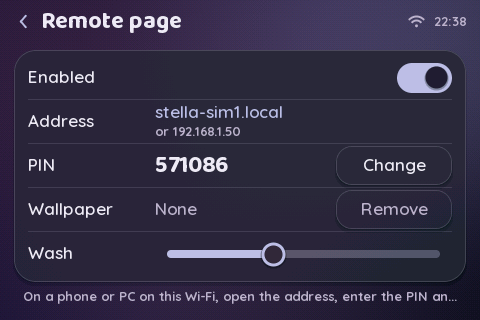
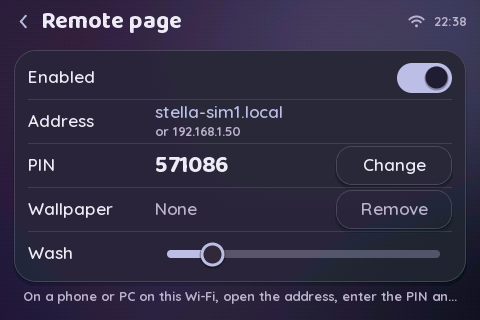
Remote page: clear the old error on unlock; gentler wallpaper defaults (0.13.1)
- A wrong PIN left "Wrong PIN" at the bottom of the page even after the right
  one unlocked it. The page now clears its message on every try and on success.
- The first defaults (35 % wash, picture softened to a quarter size) looked
  washed out and pixelated on the CYD. New wallpapers start at 15 % wash
  (kDefaultWallpaperVeil) and the page softens one step (160x120) instead of two.
  A wash already saved on a device is kept.

Claude-Session: https://claude.ai/code/session_01WrCzyR31TQn5da2N4PH2yW

Changed region(s): [[0.4062, 0.75, 0.5938, 0.8438]]

diff --git a/tools/remote_page.html b/tools/remote_page.html
@@ -13,19 +13,19 @@ canvas{width:100%;border-radius:14px;background:#2e283f;display:block}input[type
 <input type=file id=file accept="image/*">
 <canvas id=cv width=320 height=240></canvas>
 <label>Darken <span id=dv>25</span>%<input type=range id=dark min=0 max=60 value=25></label>
-<label>Soften <span id=sv>2</span><input type=range id=soft min=0 max=4 value=2></label>
+<label>Soften <span id=sv>1</span><input type=range id=soft min=0 max=4 value=1></label>
 <button id=send disabled>Send to Stella</button> <button class=q id=rm>Remove wallpaper</button>
 <h2>How much to wash it back</h2>
 <p>The device lightens the picture in light mode and darkens it in dark mode, so text stays readable.</p>
-<label>Wash <span id=vv>35</span>%<input type=range id=veil min=0 max=90 value=35></label>
+<label>Wash <span id=vv>15</span>%<input type=range id=veil min=0 max=90 value=15></label>
 </div><p id=msg></p>
 <script>
 const $=i=>document.getElementById(i),mk=(C,...a)=>Reflect.construct(C,a);let PIN='',img=null,out=null;
 const say=(t,bad)=>{$('msg').textContent=t;$('msg').className=bad?'bad':'ok'};
 async function api(path,body){const r=await fetch(path,{method:'POST',headers:{'X-Stella-Pin':PIN},body:body});
  let j={};try{j=await r.json()}catch(e){}if(!r.ok)throw Error(j.error||('error '+r.status));return j}
-$('go').onclick=async()=>{PIN=$('pin').value;try{await api('/api/check','');$('lock').style.display='none';$('app').style.display='block';
- $('top').textContent='Unlocked.';const s=await(await fetch('/api/status')).json();$('veil').value=s.veil;$('vv').textContent=s.veil;
+$('go').onclick=async()=>{PIN=$('pin').value;say('');try{await api('/api/check','');$('lock').style.display='none';$('app').style.display='block';
+ say('');$('top').textContent='Unlocked.';const s=await(await fetch('/api/status')).json();$('veil').value=s.veil;$('vv').textContent=s.veil;
  if(!s.supported)say('This device has no room for a wallpaper.',1)}catch(e){say(e.message,1)}};
 function crc32(u){let c,t=crc32.t;if(!t){t=crc32.t=mk(Uint32Array,256);for(let n=0;n<256;n++){c=n;for(let k=0;k<8;k++)c=c&1?0xEDB88320^(c>>>1):c>>>1;t[n]=c>>>0}}
  c=0xFFFFFFFF;for(let i=0;i<u.length;i++)c=t[(c^u[i])&255]^(c>>>8);return(c^0xFFFFFFFF)>>>0}

diff --git a/src/stella/net/remote_page.h b/src/stella/net/remote_page.h
@@ -20,19 +20,19 @@ canvas{width:100%;border-radius:14px;background:#2e283f;display:block}input[type
 <input type=file id=file accept="image/*">
 <canvas id=cv width=320 height=240></canvas>
 <label>Darken <span id=dv>25</span>%<input type=range id=dark min=0 max=60 value=25></label>
-<label>Soften <span id=sv>2</span><input type=range id=soft min=0 max=4 value=2></label>
+<label>Soften <span id=sv>1</span><input type=range id=soft min=0 max=4 value=1></label>
 <button id=send disabled>Send to Stella</button> <button class=q id=rm>Remove wallpaper</button>
 <h2>How much to wash it back</h2>
 <p>The device lightens the picture in light mode and darkens it in dark mode, so text stays readable.</p>
-<label>Wash <span id=vv>35</span>%<input type=range id=veil min=0 max=90 value=35></label>
+<label>Wash <span id=vv>15</span>%<input type=range id=veil min=0 max=90 value=15></label>
 </div><p id=msg></p>
 <script>
 const $=i=>document.getElementById(i),mk=(C,...a)=>Reflect.construct(C,a);let PIN='',img=null,out=null;
 const say=(t,bad)=>{$('msg').textContent=t;$('msg').className=bad?'bad':'ok'};
 async function api(path,body){const r=await fetch(path,{method:'POST',headers:{'X-Stella-Pin':PIN},body:body});
  let j={};try{j=await r.json()}catch(e){}if(!r.ok)throw Error(j.error||('error '+r.status));return j}
-$('go').onclick=async()=>{PIN=$('pin').value;try{await api('/api/check','');$('lock').style.display='none';$('app').style.display='block';
- $('top').textContent='Unlocked.';const s=await(await fetch('/api/status')).json();$('veil').value=s.veil;$('vv').textContent=s.veil;
+$('go').onclick=async()=>{PIN=$('pin').value;say('');try{await api('/api/check','');$('lock').style.display='none';$('app').style.display='block';
+ say('');$('top').textContent='Unlocked.';const s=await(await fetch('/api/status')).json();$('veil').value=s.veil;$('vv').textContent=s.veil;
  if(!s.supported)say('This device has no room for a wallpaper.',1)}catch(e){say(e.message,1)}};
 function crc32(u){let c,t=crc32.t;if(!t){t=crc32.t=mk(Uint32Array,256);for(let n=0;n<256;n++){c=n;for(let k=0;k<8;k++)c=c&1?0xEDB88320^(c>>>1):c>>>1;t[n]=c>>>0}}
  c=0xFFFFFFFF;for(let i=0;i<u.length;i++)c=t[(c^u[i])&255]^(c>>>8);return(c^0xFFFFFFFF)>>>0}

diff --git a/tests/test_remote.cpp b/tests/test_remote.cpp
@@ -8,6 +8,7 @@
 
 #include "sim_session.h"
 #include "stella/net/remote.h"
+#include "stella/net/remote_page.h"
 #include "stella/net/wallpaper.h"
 #include "test.h"
 
@@ -385,7 +386,7 @@ TEST(a_wallpaper_replaces_the_sky_washed_toward_the_theme_and_goes_away_again) {
   const std::string file = makeWallpaper(0xF800, 0x001F);
   CHECK_EQ(send(*handler, post("/api/wallpaper", pinOf(s), file)).status, 200);
   s.run(600);
-  const uint8_t veil = 35 * 255 / 100;
+  const uint8_t veil = kDefaultWallpaperVeil * 255 / 100;
   CHECK(s.dev.display.pixel(3, 100) == blend((Color)0xF800, (Color)0x0000, veil));  // left half red, washed dark
   CHECK(s.dev.display.pixel(316, 100) == blend((Color)0x001F, (Color)0x0000, veil));
   CHECK(s.dev.display.pixel(3, 100) != skyLeft);
@@ -466,4 +467,26 @@ TEST(the_remote_screen_and_settings_row_render_at_every_size) {
     s.run(100);
     CHECK(sameAsFullRedraw(s));  // Settings' list with its new row
   }
+}
+
+// Regression (owner, on the CYD): a wrong PIN left "Wrong PIN" at the bottom of the
+// page even after the right one unlocked it. The page now clears its message first.
+TEST(the_page_clears_an_old_error_when_it_unlocks) {
+  const std::string page(kRemotePage);
+  const size_t go = page.find("$('go').onclick");
+  CHECK(go != std::string::npos);
+  const std::string handler = page.substr(go, 260);
+  CHECK(handler.find("say('')") != std::string::npos);                 // cleared on every try
+  CHECK(handler.find("say('');$('top').textContent='Unlocked.'") != std::string::npos);  // and again on success
+}
+
+// The first wallpaper looked washed out and pixelated with the first defaults
+// (35 % wash, the picture softened to a quarter size): they are lighter now.
+TEST(wallpaper_defaults_are_light) {
+  CHECK_EQ(kDefaultWallpaperVeil, 15);
+  const std::string page(kRemotePage);
+  CHECK(page.find("id=veil min=0 max=90 value=15") != std::string::npos);
+  CHECK(page.find("id=soft min=0 max=4 value=1") != std::string::npos);
+  SimSession s(320, 240);
+  CHECK_EQ(s.os.remote().status().veil, kDefaultWallpaperVeil);  // before anything was saved
 }

diff --git a/src/stella/net/remote.h b/src/stella/net/remote.h
@@ -34,13 +34,18 @@ namespace topics {
 constexpr uint16_t kRemote = 4;  // Topic<RemoteInfo>
 }
 
+// How far a new wallpaper is washed toward white (light mode) or black (dark
+// mode), in percent. 35 looked washed out on the CYD's panel, which already
+// lifts pastels; a light touch keeps text readable on the glass cards.
+constexpr uint8_t kDefaultWallpaperVeil = 15;
+
 struct RemoteInfo {
   bool enabled = false;
   bool running = false;           // listening on the home network now
   bool wallpaperSupported = false;
   bool wallpaper = false;         // a valid picture is stored
   bool lockedOut = false;         // too many wrong PINs
-  uint8_t veil = 35;              // 0..90 % wash over the picture
+  uint8_t veil = kDefaultWallpaperVeil;  // 0..90 % wash over the picture
   uint32_t generation = 0;        // changes whenever the picture does
   char host[24] = {0};            // "stella-ab12"
   char ip[16] = {0};
@@ -174,7 +179,7 @@ class RemoteService : public Job, public RemoteHandler, public RemoteControl {
   // Service thread only.
   RemoteInfo info_;
   bool enabled_ = false;
-  uint8_t veil_ = 35;
+  uint8_t veil_ = kDefaultWallpaperVeil;
   uint32_t now_ = 0, lockedUntil_ = 0;
   int failures_ = 0;
   bool locked_ = false;

diff --git a/src/stella/net/remote.cpp b/src/stella/net/remote.cpp
@@ -86,7 +86,7 @@ void RemoteService::configure(RemoteServer *server, WallpaperStore *store, WifiD
   bool pinOk = status == RecordStatus::Ok && strlen(record.pin) == 6;
   for (int i = 0; pinOk && i < 6; ++i) pinOk = record.pin[i] >= '0' && record.pin[i] <= '9';
   enabled_ = status == RecordStatus::Ok && record.enabled != 0;
-  veil_ = status == RecordStatus::Ok && record.veil <= 90 ? record.veil : 35;
+  veil_ = status == RecordStatus::Ok && record.veil <= 90 ? record.veil : kDefaultWallpaperVeil;
   if (pinOk) memcpy(pin_, record.pin, sizeof(pin_));
   else makePin();
   info_.wallpaperSupported = store_ && store_->capacity() >= wallpaper::kTotalBytes;

diff --git a/src/stella/runtime/runtime.h b/src/stella/runtime/runtime.h
@@ -27,7 +27,7 @@
 #include "event_queue.h"
 
 #ifndef STELLA_VERSION
-#define STELLA_VERSION "0.13.0"
+#define STELLA_VERSION "0.13.1"
 #endif
 
 namespace stella {
@@ -304,7 +304,7 @@ class Runtime : public AppContext, public TopicNotifier, public ServiceHost {
   bool lightWarm_ = false;
   bool whatsNewPending_ = false;
   bool wallpaperOn_ = false;
-  uint8_t wallpaperVeil_ = 35;
+  uint8_t wallpaperVeil_ = kDefaultWallpaperVeil;
   uint16_t wallpaperPalette_[wallpaper::kColors] = {};
   uint8_t wallpaperRow_[wallpaper::kWidth] = {};
   int64_t sunRise_ = 0, sunSet_ = 0;  // today's, from the Weather place; 0 = unknown

diff --git a/src/stella/apps/changelog.cpp b/src/stella/apps/changelog.cpp
@@ -7,6 +7,7 @@ namespace {
 // Newest first. Add an entry when STELLA_VERSION goes up; a test checks the
 // top one matches the running version.
 const ChangelogEntry kChangelog[] = {
+    {"0.13.1", {"Remote page: no stale error", "Gentler wallpaper defaults", nullptr}},
     {"0.13.0",
      {"Units: \xc2\xb0" "C/\xc2\xb0" "F, week, date", "Idle face: clock or dashboard",
       "Sunrise/sunset on bedside", nullptr}},

diff --git a/README.md b/README.md
@@ -16,7 +16,7 @@ management and versioned settings.
 
 | | |
 | --- | --- |
-| Version | 0.13.0 (units: °C/°F, week start, date order; a dashboard idle face; sunrise/sunset on the bedside clock), 0.12.0 (a web page on your Wi-Fi, wallpaper from your phone), 0.11.1 (the weather request fixed), 0.11.0 (the sky follows the real sunrise and sunset), 0.10.0 (What's new after an update, a customisable Home), 0.9.0 (the next hours and a rain outlook), 0.8.4 (a bigger time on Home), 0.8.3 (sunrise and sunset on Weather), 0.8.2 (Home header with the time, StellaOS name), 0.8.1 (brighter alert LED), 0.8.0: status LED, Find my LED, ambient-light dimming with a calibration (0.7.x added update diagnostics and gentler flash writes; the screen-transition experiment was removed again) |
+| Version | 0.13.1 (remote page fix, gentler wallpaper defaults), 0.13.0 (units: °C/°F, week start, date order; a dashboard idle face; sunrise/sunset on the bedside clock), 0.12.0 (a web page on your Wi-Fi, wallpaper from your phone), 0.11.1 (the weather request fixed), 0.11.0 (the sky follows the real sunrise and sunset), 0.10.0 (What's new after an update, a customisable Home), 0.9.0 (the next hours and a rain outlook), 0.8.4 (a bigger time on Home), 0.8.3 (sunrise and sunset on Weather), 0.8.2 (Home header with the time, StellaOS name), 0.8.1 (brighter alert LED), 0.8.0: status LED, Find my LED, ambient-light dimming with a calibration (0.7.x added update diagnostics and gentler flash writes; the screen-transition experiment was removed again) |
 | First board | ESP32-2432S028R "Cheap Yellow Display" (2.8" 320x240, XPT2046) |
 | Host tests | 219 tests under ASan + UBSan, incl. touch-driven Wi-Fi onboarding, alarms, the stopwatch and the update flow; screenshots at 320x240 and 480x320 |
 | Firmware build | Compiles with Arduino-ESP32 3.3.12: 1.48 MB flash (75% of a 1.9 MB update slot), 84 KB static RAM (25%) |
